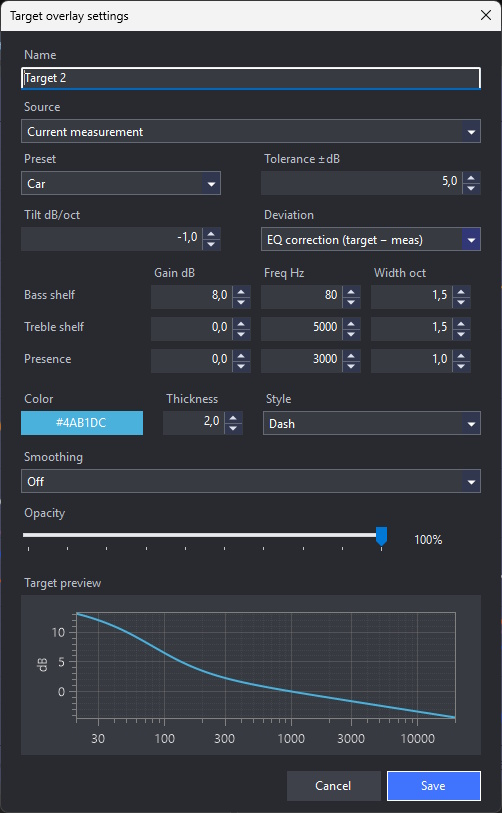
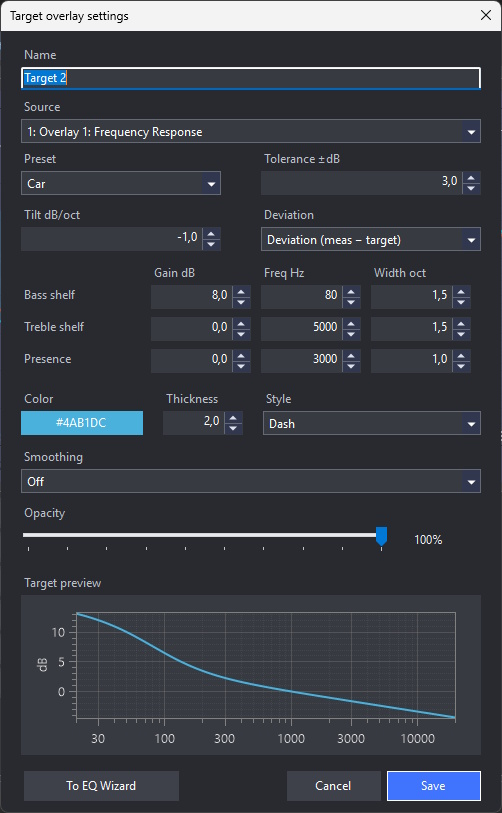
readme

diff --git a/README.md b/README.md
@@ -89,6 +89,15 @@ file is provided with every release.
   updates
 - Auto-update support for installed builds through a signed NetSparkle appcast
 
+## Typical workflows
+
+- ✔ Align car speakers
+- ✔ Tune a home loudspeaker
+- ✔ Compare crossover prototypes
+- ✔ Measure a microphone
+- ✔ Create PEQ filters
+- ✔ Export to DSP
+
 ## Why Resonalyze?
 
 If you already use tools like REW, OpenSoundMeter, or Smaart, the obvious